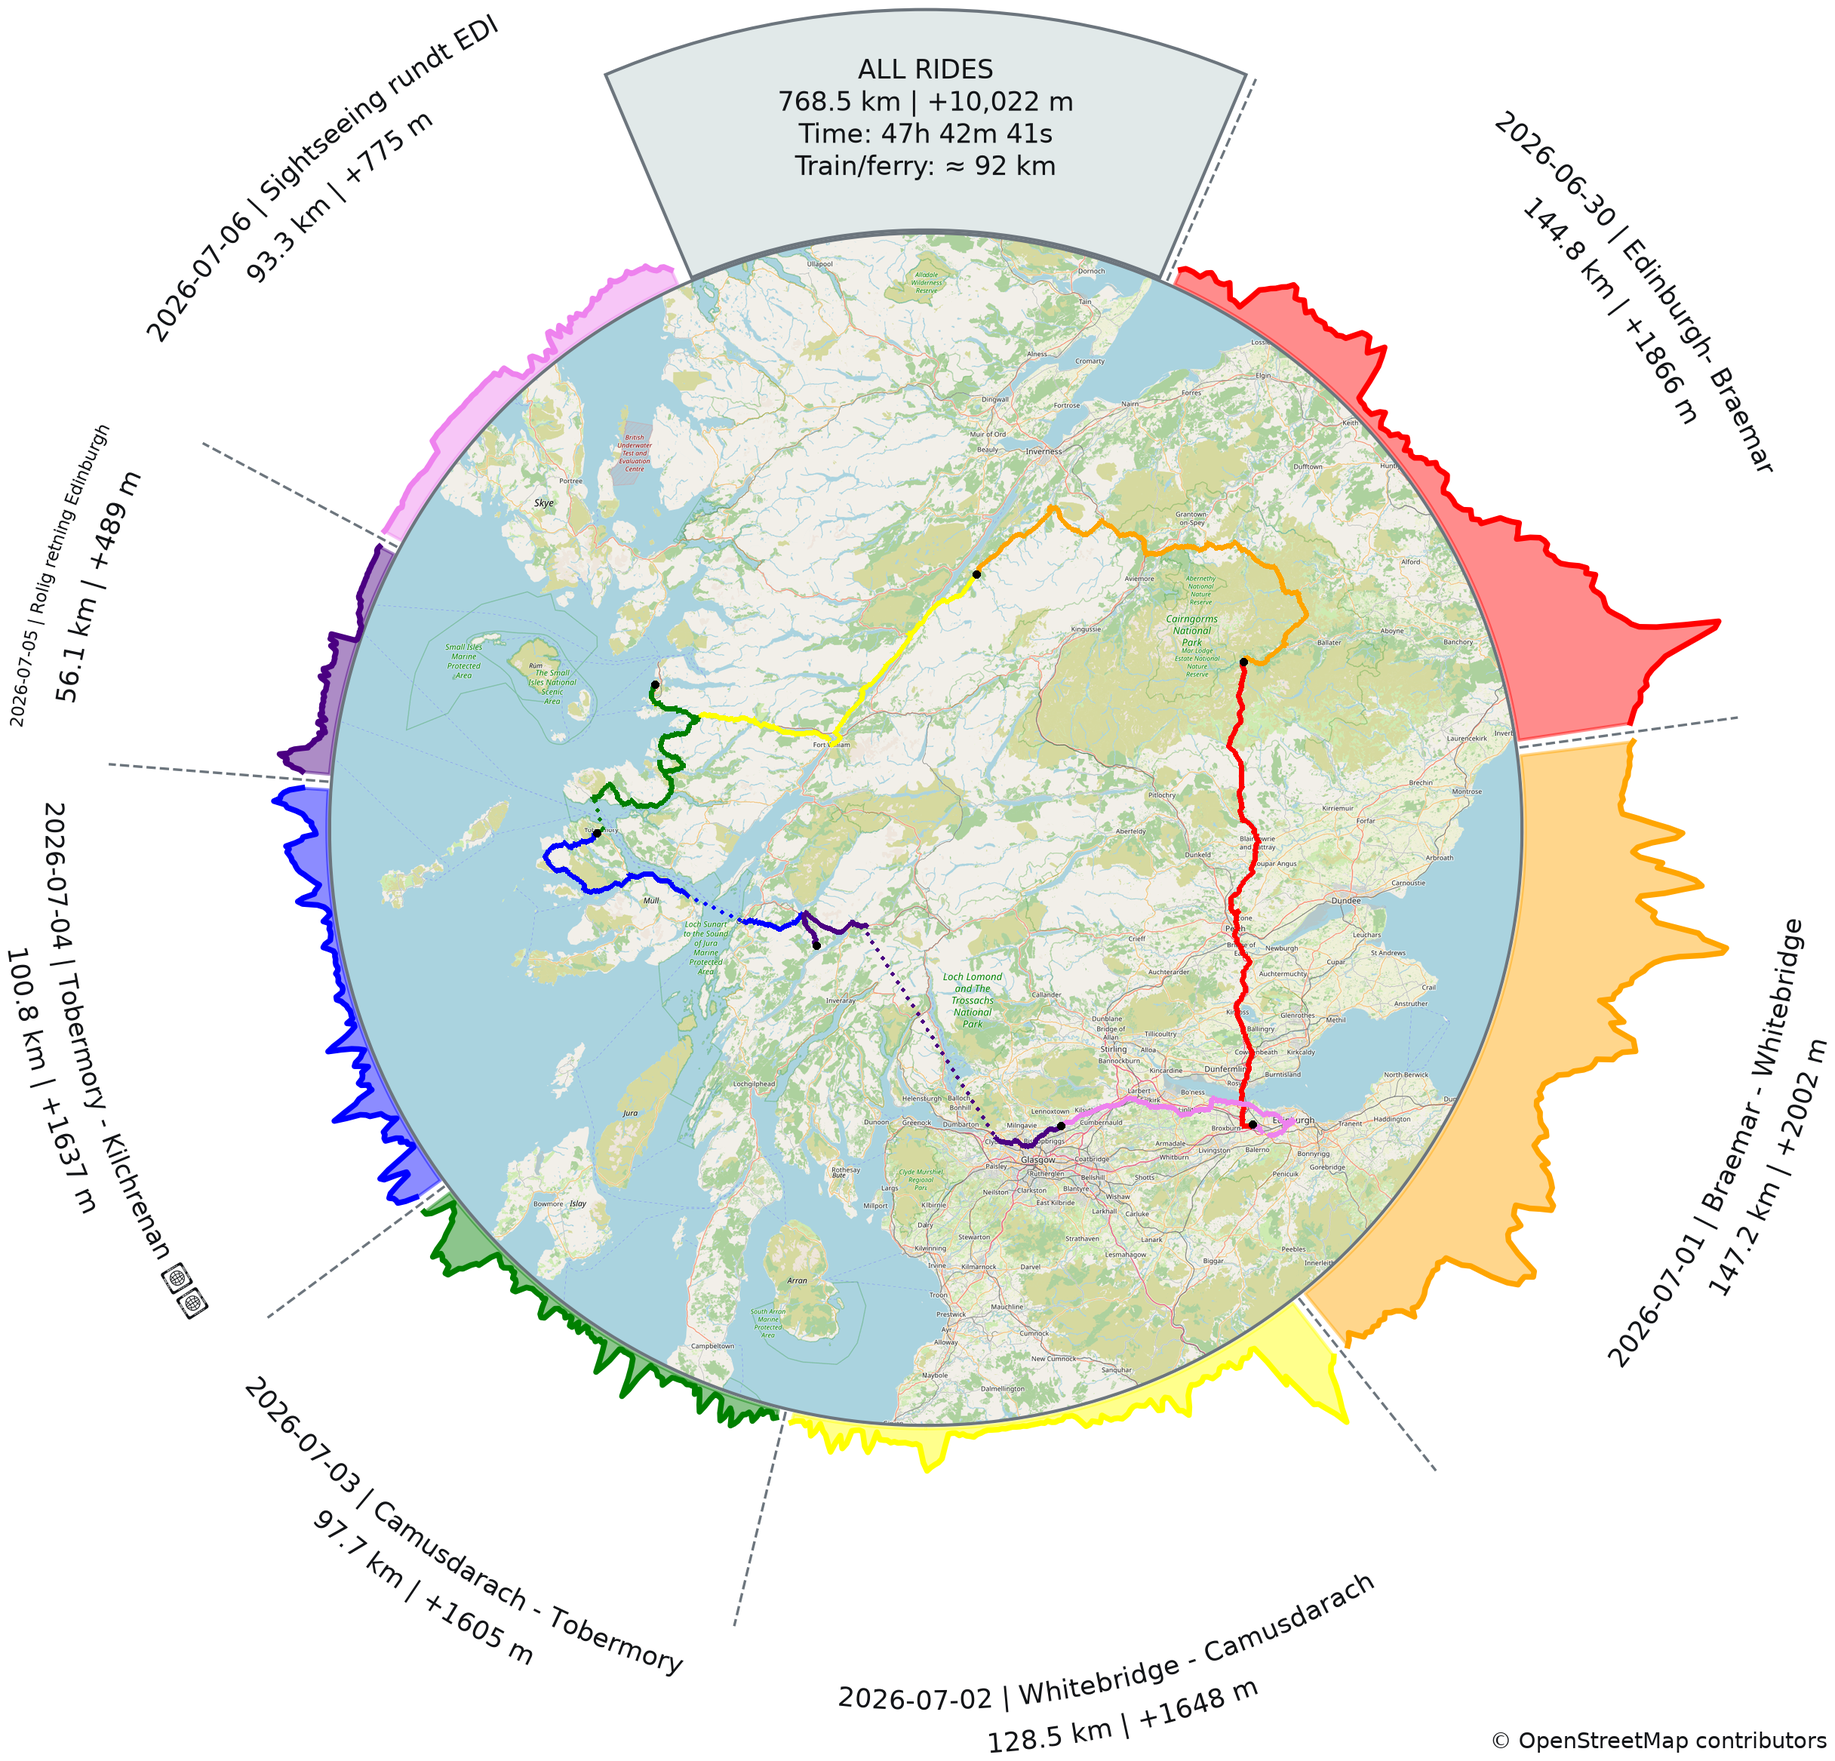
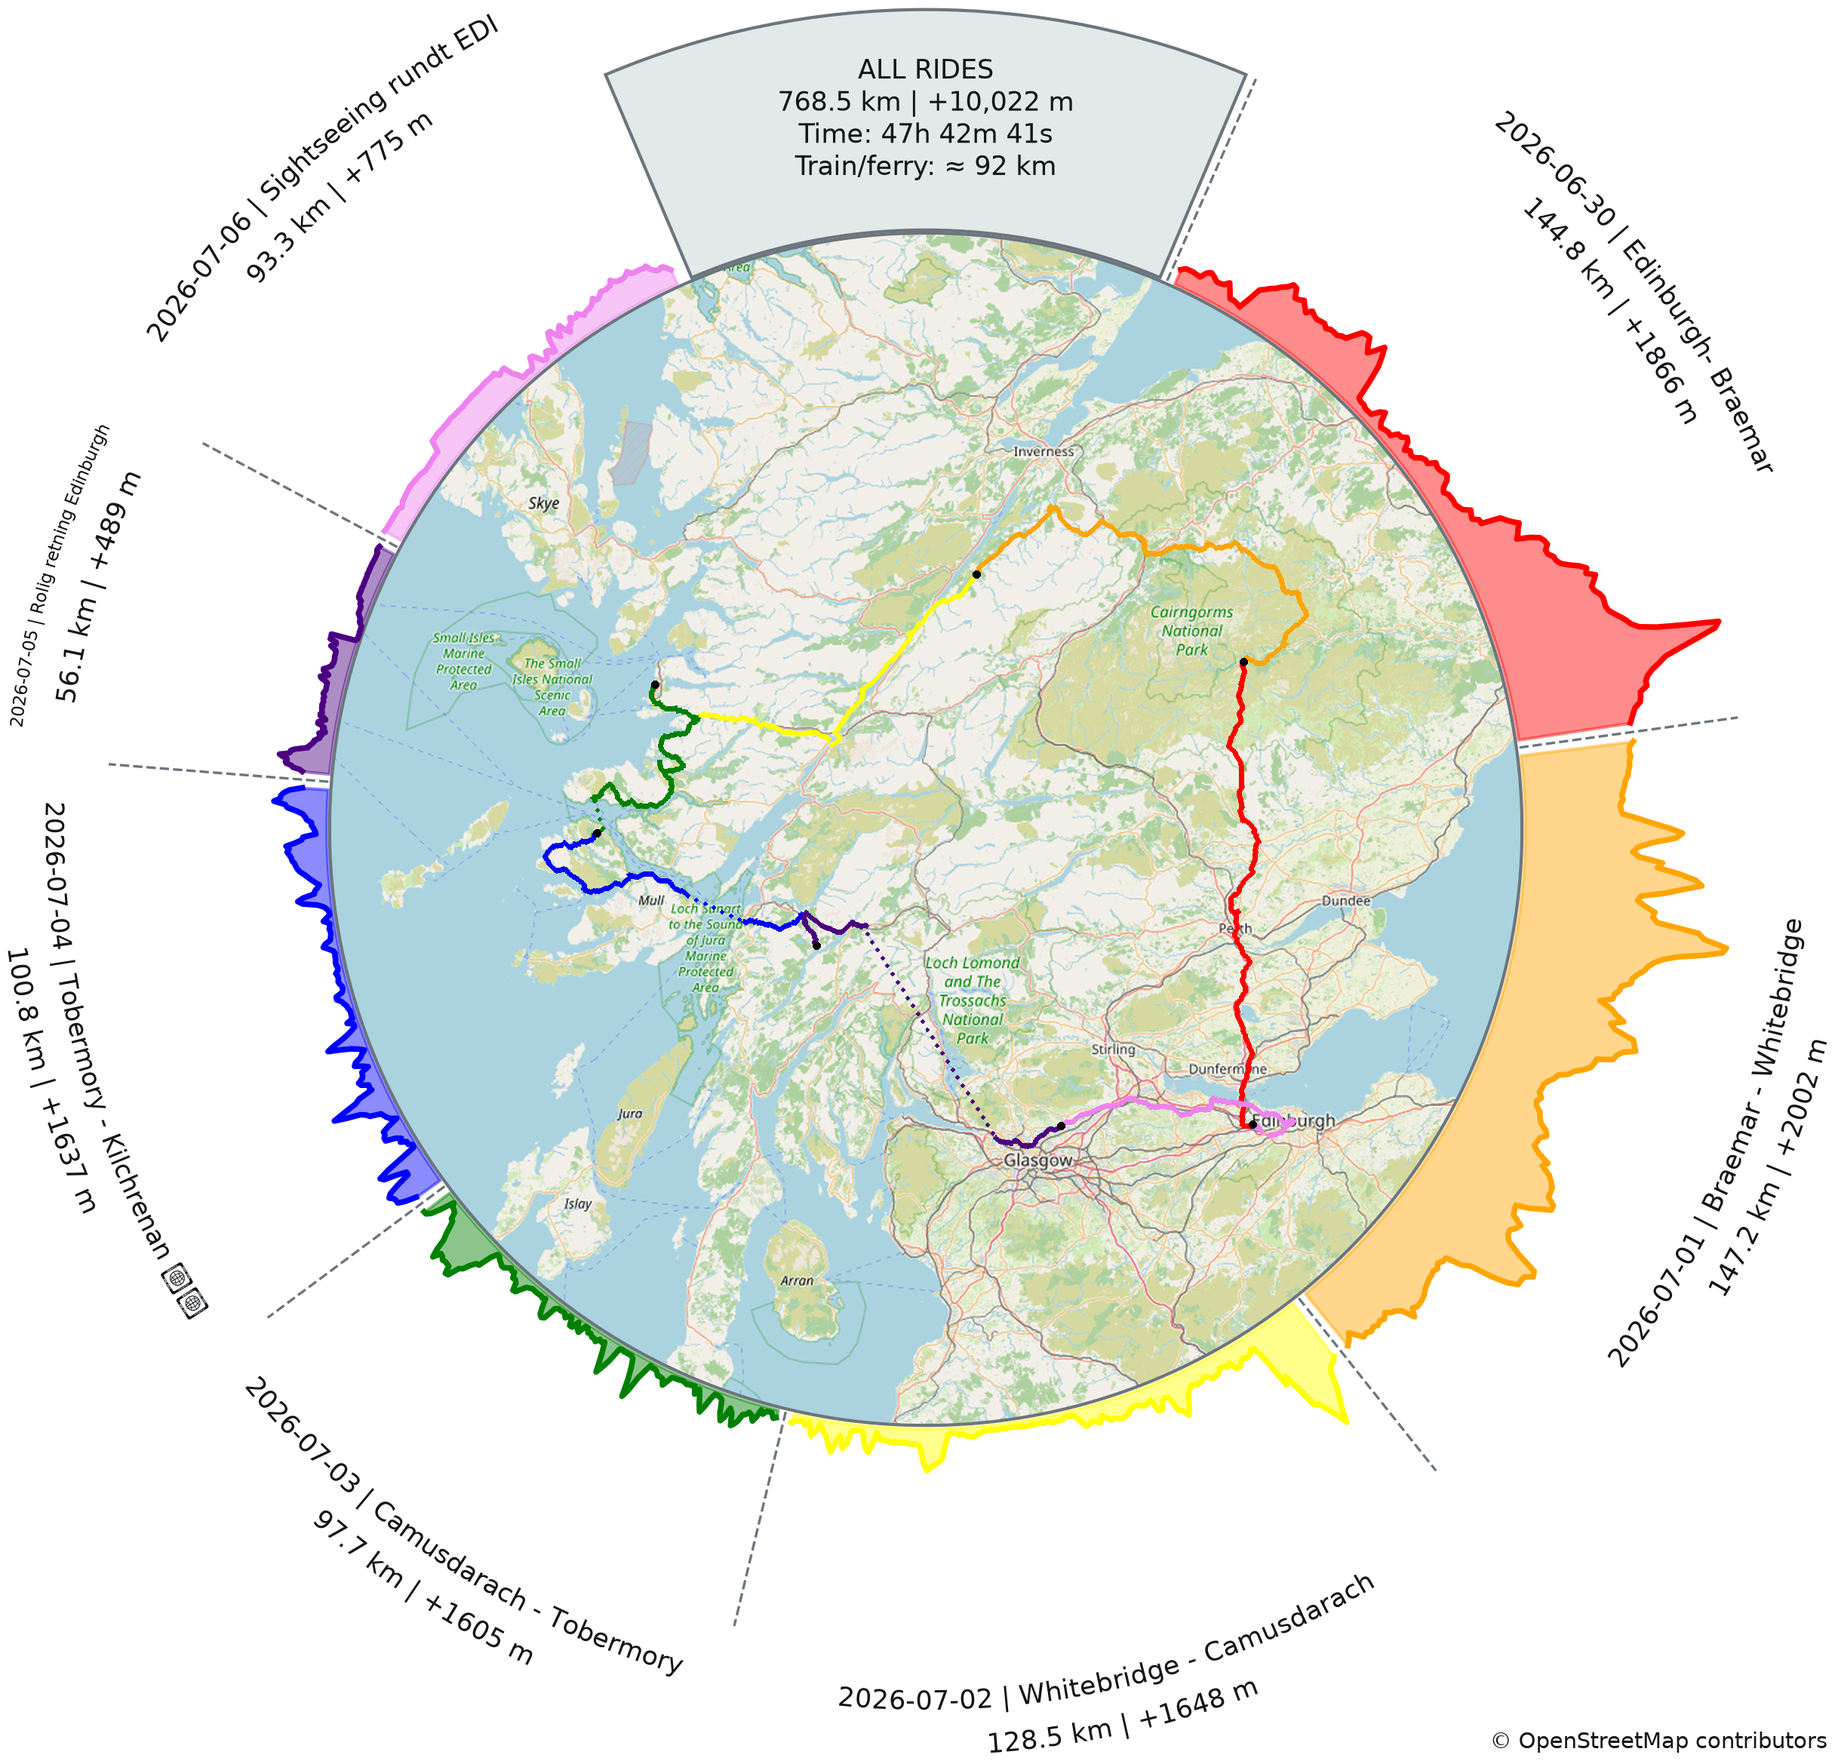
map scaling option

diff --git a/src/generate-wheel.py b/src/generate-wheel.py
@@ -455,7 +455,9 @@ def create_interactive_wheel(gpx_folder, output_file=None, background="dark", tr
     print(f"Saved interactive activity wheel to {wheel_path}")
     print(f"Saved interactive day view to {day_path}")
 
-def fetch_center_map(activities, size_px=800, output_px=None):
+def fetch_center_map(activities, size_px=800, output_px=None, *, map_scale=100):
+    if not 100 <= map_scale <= 400:
+        raise ValueError("Map scale must be between 100 and 400 percent.")
     all_lons = [pt[0] for act in activities for pt in act["coords"]]
     all_lats = [pt[1] for act in activities for pt in act["coords"]]
     
@@ -485,11 +487,16 @@ def fetch_center_map(activities, size_px=800, output_px=None):
     zoom += zoom_increase
     source_size = size_px * 2 ** zoom_increase
     cx, cy = deg2num(center_lat, center_lon, zoom)
-    left = math.floor(cx * 256 - source_size / 2)
-    top = math.floor(cy * 256 - source_size / 2)
-    first_x, first_y = left // 256, top // 256
-    last_x = (left + source_size - 1) // 256
-    last_y = (top + source_size - 1) // 256
+    zoom_reduction = min(zoom, round(math.log2(map_scale / 100)))
+    source_scale = 2 ** zoom_reduction
+    # Anchor the lower-detail crop to the native crop so route positions stay identical.
+    left = math.floor(cx * 256 - source_size / 2) / source_scale
+    top = math.floor(cy * 256 - source_size / 2) / source_scale
+    source_size /= source_scale
+    zoom -= zoom_reduction
+    first_x, first_y = math.floor(left / 256), math.floor(top / 256)
+    last_x = math.ceil((left + source_size) / 256) - 1
+    last_y = math.ceil((top + source_size) / 256) - 1
     canvas = Image.new("RGB", ((last_x - first_x + 1) * 256, (last_y - first_y + 1) * 256))
     headers = {"User-Agent": "GPXActivityWheel/1.0 (local-script)"}
 
@@ -502,9 +509,13 @@ def fetch_center_map(activities, size_px=800, output_px=None):
             canvas.paste(tile, ((tx - first_x) * 256, (ty - first_y) * 256))
 
     crop_left, crop_top = left - first_x * 256, top - first_y * 256
-    cropped = canvas.crop((crop_left, crop_top, crop_left + source_size, crop_top + source_size))
-    if source_size != output_px:
-        cropped = cropped.resize((output_px, output_px), Image.Resampling.LANCZOS)
+    crop_box = (crop_left, crop_top, crop_left + source_size, crop_top + source_size)
+    if zoom_reduction:
+        cropped = canvas.resize((output_px, output_px), Image.Resampling.LANCZOS, box=crop_box)
+    else:
+        cropped = canvas.crop(crop_box)
+        if source_size != output_px:
+            cropped = cropped.resize((output_px, output_px), Image.Resampling.LANCZOS)
 
     # Draw GPX tracks onto the cropped map
     draw = ImageDraw.Draw(cropped)
@@ -571,8 +582,10 @@ def draw_arc_label(ax, text, theta, radius, span, reverse, color="#e0e6ed"):
     return True
 
 def create_activity_wheel(gpx_folder, output_file=None, background="dark", transparent_theme=None,
-                          **transit_options):
+                          *, map_scale=100, **transit_options):
     validate_theme(background, transparent_theme)
+    if not 100 <= map_scale <= 400:
+        raise ValueError("Map scale must be between 100 and 400 percent.")
     output_path = Path(output_file if output_file is not None else DOCS_DIR / "activity_wheel.png").absolute()
     if background == "transparent" and output_path.suffix.lower() != ".png":
         raise ValueError("Transparent background requires a PNG output file.")
@@ -613,7 +626,7 @@ def create_activity_wheel(gpx_folder, output_file=None, background="dark", trans
     map_pixels = math.ceil(ax_map.bbox.width)
     map_img = None
     try:
-        map_img = fetch_center_map(activities, size_px=900, output_px=map_pixels)
+        map_img = fetch_center_map(activities, size_px=900, output_px=map_pixels, map_scale=map_scale)
     finally:
         if map_img is None:
             plt.close(fig)
@@ -736,6 +749,11 @@ if __name__ == "__main__":
         help="write an interactive HTML activity wheel and a linked day view instead of a PNG",
     )
     parser.add_argument(
+        "--map-scale", type=float, metavar="PERCENT",
+        help="basemap label scale, 100-400 percent; larger means less detail "
+             "(default: 100; PNG only; GPS tracks stay at output resolution)",
+    )
+    parser.add_argument(
         "--transit-gap-min", type=float, default=TRANSIT_GAP_S / 60, metavar="MINUTES",
         help="minimum recording pause treated as a train or ferry ride (default: 10)",
     )
@@ -754,6 +772,10 @@ if __name__ == "__main__":
         parser.error("--transit-gap-min must be greater than 0.")
     if not args.transit_min_km >= 0:
         parser.error("--transit-min-km must not be negative.")
+    if args.map_scale is not None and not 100 <= args.map_scale <= 400:
+        parser.error("--map-scale must be between 100 and 400 percent.")
+    if args.interactive and args.map_scale is not None:
+        parser.error("--map-scale is only available for PNG image generation.")
     output_suffix = Path(args.output).suffix.lower() if args.output else None
     if args.interactive and args.output and output_suffix not in (".html", ".htm"):
         parser.error("Interactive output requires an HTML file.")
@@ -761,12 +783,18 @@ if __name__ == "__main__":
         parser.error("Transparent background requires a PNG output file.")
     if args.transparent_theme is not None and args.background != "transparent":
         parser.error("--transparent-theme requires --background transparent.")
+    options = {
+        "transit_gap_s": args.transit_gap_min * 60,
+        "transit_min_m": args.transit_min_km * 1000,
+        "transit_between_files": args.transit_between_files,
+    }
+    if not args.interactive:
+        options["map_scale"] = args.map_scale if args.map_scale is not None else 100
     create = create_interactive_wheel if args.interactive else create_activity_wheel
     try:
         create(
             args.gpx_folder, args.output, args.background, args.transparent_theme,
-            transit_gap_s=args.transit_gap_min * 60, transit_min_m=args.transit_min_km * 1000,
-            transit_between_files=args.transit_between_files,
+            **options,
         )
     except WheelSaveError as exc:
         parser.exit(1, f"{parser.prog}: {exc}\n")

diff --git a/tests/test_wheel_layout.py b/tests/test_wheel_layout.py
@@ -1,6 +1,7 @@
 import contextlib
 import importlib.util
 import io
+import math
 from pathlib import Path
 import tempfile
 import unittest
@@ -44,7 +45,7 @@ class WheelLayoutTests(unittest.TestCase):
             "elev_gain_m": 1, "duration_s": None,
         }
 
-        def fake_map(activities, size_px=800, output_px=None):
+        def fake_map(activities, size_px=800, output_px=None, map_scale=100):
             size = output_px if output_px is not None else size_px
             return np.zeros((size, size, 3), dtype=np.uint8)
 
@@ -93,6 +94,91 @@ class WheelLayoutTests(unittest.TestCase):
         self.assertEqual(high_res.shape, (1576, 1576, 3))
         self.assertEqual(high_zoom, base_zoom + 1)
         np.testing.assert_allclose(base_points / 900, high_points / 1576, atol=1 / 900)
+
+    def test_map_scale_preserves_native_map_and_infographic_resolution(self):
+        savefig = Figure.savefig
+        activity = {
+            "date": "2026-01-01", "name": "Ride", "coords": [(0, 0), (1, 1)],
+            "elevations": np.array([0, 1]), "distance_km": 1,
+            "elev_gain_m": 1, "duration_s": None,
+        }
+        image_sizes = []
+
+        def fake_map(activities, size_px, output_px, map_scale):
+            return np.full((output_px, output_px, 3), 127, dtype=np.uint8)
+
+        def verify_scale(figure, path, **kwargs):
+            axis = figure.axes[1]
+            map_pixels = math.ceil(axis.bbox.width)
+            self.assertEqual(fetch.call_args.kwargs["output_px"], map_pixels)
+            self.assertEqual(fetch.call_args.kwargs["map_scale"], scale)
+            self.assertEqual(axis.images[0].get_array().shape, (map_pixels, map_pixels, 3))
+            self.assertTrue(np.all(axis.images[0].get_array() == 127))
+            savefig(figure, path, **kwargs)
+            with Image.open(path) as image:
+                image_sizes.append(image.size)
+
+        with tempfile.TemporaryDirectory() as folder, \
+             patch.object(wheel, "parse_gpx_folder", return_value=([activity], [], [])) as parse, \
+             patch.object(wheel, "fetch_center_map", side_effect=fake_map) as fetch, \
+             patch.object(Figure, "savefig", verify_scale), \
+             contextlib.redirect_stdout(io.StringIO()):
+            for scale in (100, 150.5, 400):
+                with self.subTest(scale=scale):
+                    wheel.create_activity_wheel(folder, Path(folder, "scaled.png"), map_scale=scale)
+                    self.assertNotIn("map_scale", parse.call_args.kwargs)
+        for size in image_sizes[1:]:
+            self.assertEqual(size, image_sizes[0])
+
+    def test_map_scale_enlarges_basemap_before_drawing_native_resolution_tracks(self):
+        activity = {
+            "coords": [(0.0, 51.0), (0.03, 51.01)],
+            "track_end_indices": [1], "color": "red",
+            "transit_legs": [[(0.0, 51.0), (0.03, 51.01)]],
+        }
+        with io.BytesIO() as data:
+            tile = Image.new("RGB", (256, 256), "white")
+            ImageDraw.Draw(tile).rectangle((0, 60, 255, 75), fill="black")
+            tile.save(data, format="PNG")
+            response = Response()
+            response.status_code = 200
+            response._content = data.getvalue()
+        line = ImageDraw.ImageDraw.line
+        ellipse = ImageDraw.ImageDraw.ellipse
+        results = []
+        for scale in (100, 200, 400):
+            with self.subTest(scale=scale), \
+                 patch.object(wheel.requests, "get", return_value=response) as requests, \
+                 patch.object(ImageDraw.ImageDraw, "line", autospec=True, side_effect=line) as lines, \
+                 patch.object(ImageDraw.ImageDraw, "ellipse", autospec=True, side_effect=ellipse) as dots:
+                image = wheel.fetch_center_map([activity], size_px=900, output_px=1576, map_scale=scale)
+                self.assertEqual(image.shape, (1576, 1576, 3))
+                self.assertEqual(lines.call_args.args[0]._image.size, (1576, 1576))
+                self.assertTrue(all(call.args[0]._image.size == (1576, 1576) for call in dots.call_args_list))
+                mask = image[:, 0, 0] < 100
+                edges = np.flatnonzero(np.diff(np.r_[False, mask, False]))
+                stripe_width = max(edges[1::2] - edges[::2])
+                dot_boxes = np.array([call.args[1] for call in dots.call_args_list])
+                results.append((
+                    int(requests.call_args.args[0].split("/")[-3]),
+                    np.array(lines.call_args.args[1]), lines.call_args.kwargs["width"],
+                    dot_boxes, stripe_width,
+                ))
+        base_zoom, base_points, base_width, base_dots, base_stripe = results[0]
+        for steps, (zoom, points, width, dots, stripe) in enumerate(results[1:], 1):
+            self.assertEqual(zoom, base_zoom - steps)
+            np.testing.assert_allclose(points, base_points, atol=1e-8)
+            self.assertEqual(width, base_width)
+            np.testing.assert_allclose(dots, base_dots, atol=1e-8)
+            self.assertAlmostEqual(stripe, base_stripe * 2 ** steps, delta=2)
+
+    def test_invalid_map_scale_is_rejected_before_parsing_gpx(self):
+        with patch.object(wheel, "parse_gpx_folder") as parse:
+            for scale in (99, 401, float("nan"), float("inf")):
+                with self.subTest(scale=scale), \
+                     self.assertRaisesRegex(ValueError, "between 100 and 400"):
+                    wheel.create_activity_wheel("unused", map_scale=scale)
+            parse.assert_not_called()
 
     def test_daily_route_colors_match_elevations_and_mark_track_ends(self):
         days = [0, 0, 1, 2, 3, 4, 5, 6, 7]

diff --git a/tests/test_interactive_wheel.py b/tests/test_interactive_wheel.py
@@ -149,6 +149,20 @@ class InteractiveWheelTests(unittest.TestCase):
                 runpy_main()
         self.assertEqual(raised.exception.code, 2)
 
+    def test_cli_rejects_invalid_or_interactive_map_scale(self):
+        with tempfile.TemporaryDirectory() as folder:
+            for options in (
+                ["--map-scale", "99"], ["--map-scale", "401"], ["--map-scale", "nan"],
+                ["--interactive", "--map-scale", "200"],
+            ):
+                with self.subTest(options=options), \
+                     patch.object(sys, "argv", ["generate-wheel.py", folder, *options]), \
+                     contextlib.redirect_stderr(io.StringIO()) as errors:
+                    with self.assertRaises(SystemExit) as raised:
+                        runpy_main()
+                    self.assertEqual(raised.exception.code, 2)
+                    self.assertIn("--map-scale", errors.getvalue())
+
 
 def runpy_main():
     import runpy

diff --git a/README.md b/README.md
@@ -21,7 +21,7 @@ displayed date use the same color. When a ride has no recorded start time, its
 displayed date uses the first 10 characters of its filename. Black dots mark
 the end of each GPX track.
 The map uses higher-detail tiles and is rendered at the output resolution
-while retaining the same geographic coverage.
+by default, while retaining the same geographic coverage.
 
 ### Train and ferry rides
 
@@ -81,6 +81,23 @@ The directory argument is optional and defaults to `./gpx_tracks`. The generated
 created automatically, regardless of the GPX folder or working directory.
 An explicit `--output` path overrides this default. The script needs
 internet access to download map tiles from `tile.openstreetmap.org`.
+
+Use `--map-scale PERCENT` from **100 to 400 percent** (default: **100**) to
+make basemap labels larger by using less-detailed map tiles. At 200%, tiles
+come from one zoom level lower, making place labels approximately twice as
+large; 400% uses two levels lower. Intermediate values are rounded to the
+nearest tile zoom-level scale because tile zoom levels are discrete.
+
+The basemap is resized to the final map resolution **before** drawing GPS
+tracks, black end dots and dotted transit connections. These overlays are
+always drawn at native output resolution: their positions, widths and sizes
+do not change with `--map-scale`. The final PNG size, geographic coverage,
+layout and information text resolution also stay unchanged.
+This option is not available with `--interactive`.
+
+~~~powershell
+python src\generate-wheel.py "C:\path\to\gpx_tracks" --map-scale 200
+~~~
 
 The default background is dark. Use `--background white` for a white image, or
 `--background transparent` for a transparent PNG. For transparency, choose
